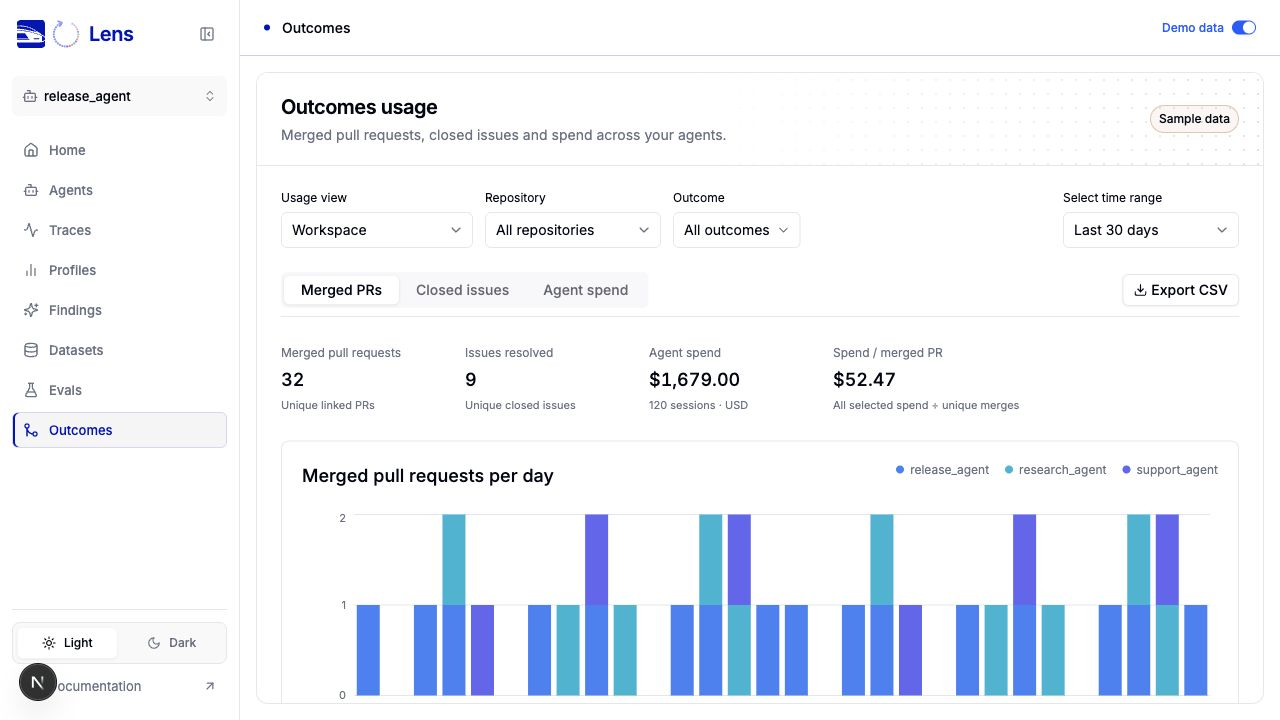
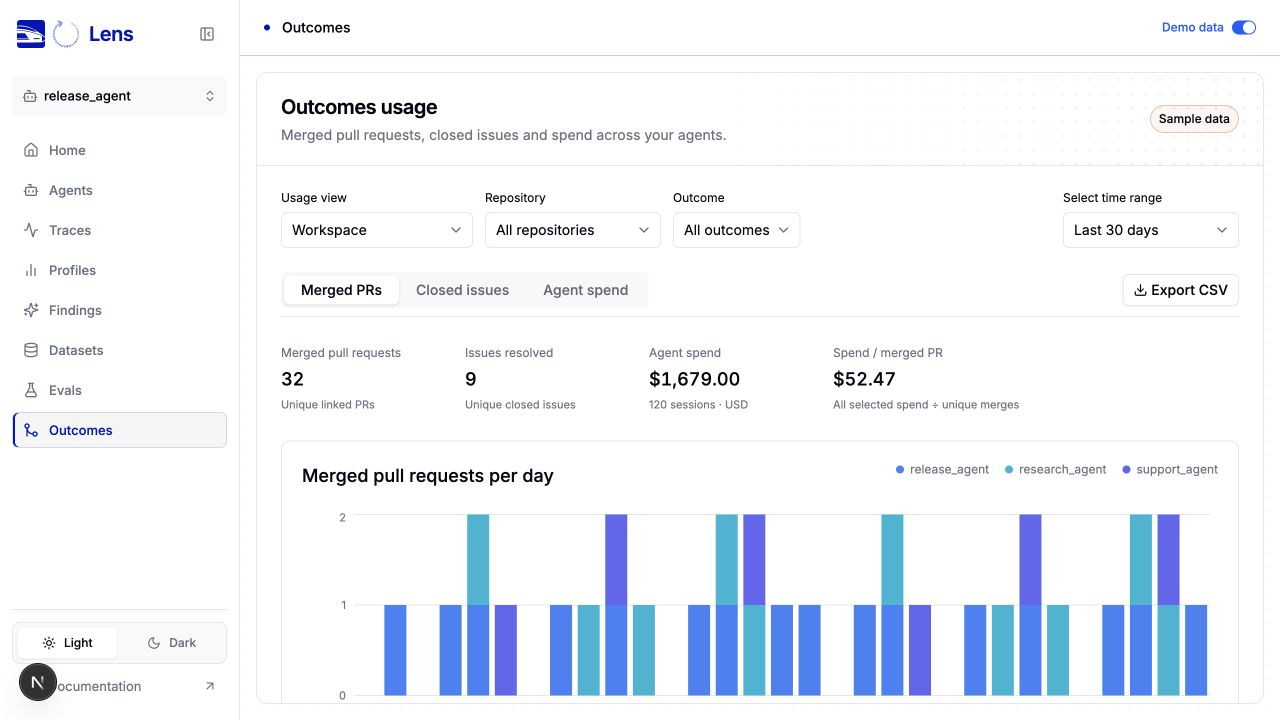
fix(lens): include partial boundary days in outcomes charts

diff --git a/src/ui/lib/src/components/lens/outcomes/outcomesModel.test.ts b/src/ui/lib/src/components/lens/outcomes/outcomesModel.test.ts
@@ -231,7 +231,7 @@ describe("delivery trend and repository rollups", () => {
       session({ id: "follow-up" }),
     ];
     const trend = dailyOutcomeTrend(rows, 7, NOW);
-    expect(trend).toHaveLength(7);
+    expect(trend).toHaveLength(8);
     expect(trend.at(-1)).toEqual({
       date: "2026-11-05",
       sessions: 1,
@@ -247,6 +247,85 @@ describe("delivery trend and repository rollups", () => {
       costUSD: 10,
     });
   });
+
+  it.each([
+    [
+      "partial boundary days",
+      "2026-11-05T12:00:00Z",
+      8,
+      "2026-10-29",
+      "2026-11-05",
+    ],
+    ["midnight end", "2026-11-05T00:00:00Z", 7, "2026-10-29", "2026-11-04"],
+  ] as const)(
+    "keeps rolling-period spend and merge totals consistent for %s",
+    (_name, end, buckets, firstDate, lastDate) => {
+      const now = Date.parse(end);
+      const start = now - 7 * 24 * HOUR_MS;
+      const rows = filterOutcomeSessions(
+        [
+          session({
+            id: "first-partial-day",
+            startedAt: new Date(start + HOUR_MS).toISOString(),
+            finishedAt: new Date(start + 1.5 * HOUR_MS).toISOString(),
+            costUSD: 12,
+            pullRequest: {
+              id: 7,
+              title: "First-day fix",
+              status: "merged",
+              mergedAt: new Date(start + 2 * HOUR_MS).toISOString(),
+            },
+            issue: null,
+          }),
+          session({
+            id: "last-day",
+            startedAt: new Date(now - 3 * HOUR_MS).toISOString(),
+            finishedAt: new Date(now - 2.5 * HOUR_MS).toISOString(),
+            costUSD: 8,
+            pullRequest: {
+              id: 8,
+              title: "Last-day fix",
+              status: "merged",
+              mergedAt: new Date(now - HOUR_MS).toISOString(),
+            },
+            issue: null,
+          }),
+        ],
+        { days: 7, status: "all" },
+        now,
+      );
+      const summary = summarizeOutcomes(rows);
+      const daily = dailyOutcomeTrend(rows, 7, now);
+      expect(daily).toHaveLength(buckets);
+      expect(daily[0].date).toBe(firstDate);
+      expect(daily.at(-1)?.date).toBe(lastDate);
+      expect(daily[0]).toMatchObject({
+        sessions: 1,
+        costUSD: 12,
+        mergedPRs: 1,
+      });
+      expect(daily.reduce((total, day) => total + day.costUSD, 0)).toBe(
+        summary.totalCostUSD,
+      );
+      expect(daily.reduce((total, day) => total + day.mergedPRs, 0)).toBe(
+        summary.mergedPRs,
+      );
+      const spend = dailyAgentOutcomeTrend(rows, 7, now, "costUSD");
+      const merges = dailyAgentOutcomeTrend(rows, 7, now, "mergedPRs");
+      expect(spend[0].values.release_agent).toBe(12);
+      expect(merges[0].values.release_agent).toBe(1);
+      expect(
+        spend
+          .flatMap((day) => Object.values(day.values))
+          .reduce((total, value) => total + value, 0),
+      ).toBe(summary.totalCostUSD);
+      expect(
+        merges
+          .flatMap((day) => Object.values(day.values))
+          .reduce((total, value) => total + value, 0),
+      ).toBe(summary.mergedPRs);
+    },
+  );
 
   it("ranks repositories by spend and derives shares against all filtered spend", () => {
     const rows = [

diff --git a/src/ui/lib/src/components/lens/outcomes/outcomesModel.ts b/src/ui/lib/src/components/lens/outcomes/outcomesModel.ts
@@ -269,11 +269,11 @@ export function dailyOutcomeTrend(
   days: number,
   now: number,
 ): OutcomeTrendPoint[] {
-  const lastDay = Math.floor(now / DAY_MS) * DAY_MS;
-  return Array.from({ length: days }, (_, index) => {
-    const date = new Date(lastDay - (days - index - 1) * DAY_MS)
-      .toISOString()
-      .slice(0, 10);
+  const firstDay = Math.floor((now - days * DAY_MS) / DAY_MS) * DAY_MS;
+  const lastDay = Math.floor((now - 1) / DAY_MS) * DAY_MS;
+  const bucketCount = (lastDay - firstDay) / DAY_MS + 1;
+  return Array.from({ length: bucketCount }, (_, index) => {
+    const date = new Date(firstDay + index * DAY_MS).toISOString().slice(0, 10);
     const started = sessions.filter(
       (session) => session.startedAt.slice(0, 10) === date,
     );
@@ -338,7 +338,8 @@ export function createOutcomeDemo(now: number): OutcomeSession[] {
     const repository =
       DEMO_REPOSITORIES[Math.floor(group / 3) % DEMO_REPOSITORIES.length];
     const isLinked = group % 10 !== 9;
-    const merged = group % 10 < ([8, 5, 3] as const)[group % DEMO_AGENTS.length];
+    const merged =
+      group % 10 < ([8, 5, 3] as const)[group % DEMO_AGENTS.length];
     const pullRequest: OutcomePullRequest | null = isLinked
       ? {
           id: 480 + group,

diff --git a/src/ui/lib/src/components/lens/outcomes/OutcomesTrend.tsx b/src/ui/lib/src/components/lens/outcomes/OutcomesTrend.tsx
@@ -51,7 +51,7 @@ export function OutcomesTrend({
       </div>
       <div
         role="img"
-        aria-label={`${selected.title}: ${outcomeValue(total, measure)} ${selected.unit} across ${data.length} days, segmented by agent`}
+        aria-label={`${selected.title}: ${outcomeValue(total, measure)} ${selected.unit} across ${data.length} daily buckets, segmented by agent`}
         className="h-[220px] w-full"
       >
         <ResponsiveContainer width="100%" height="100%">
